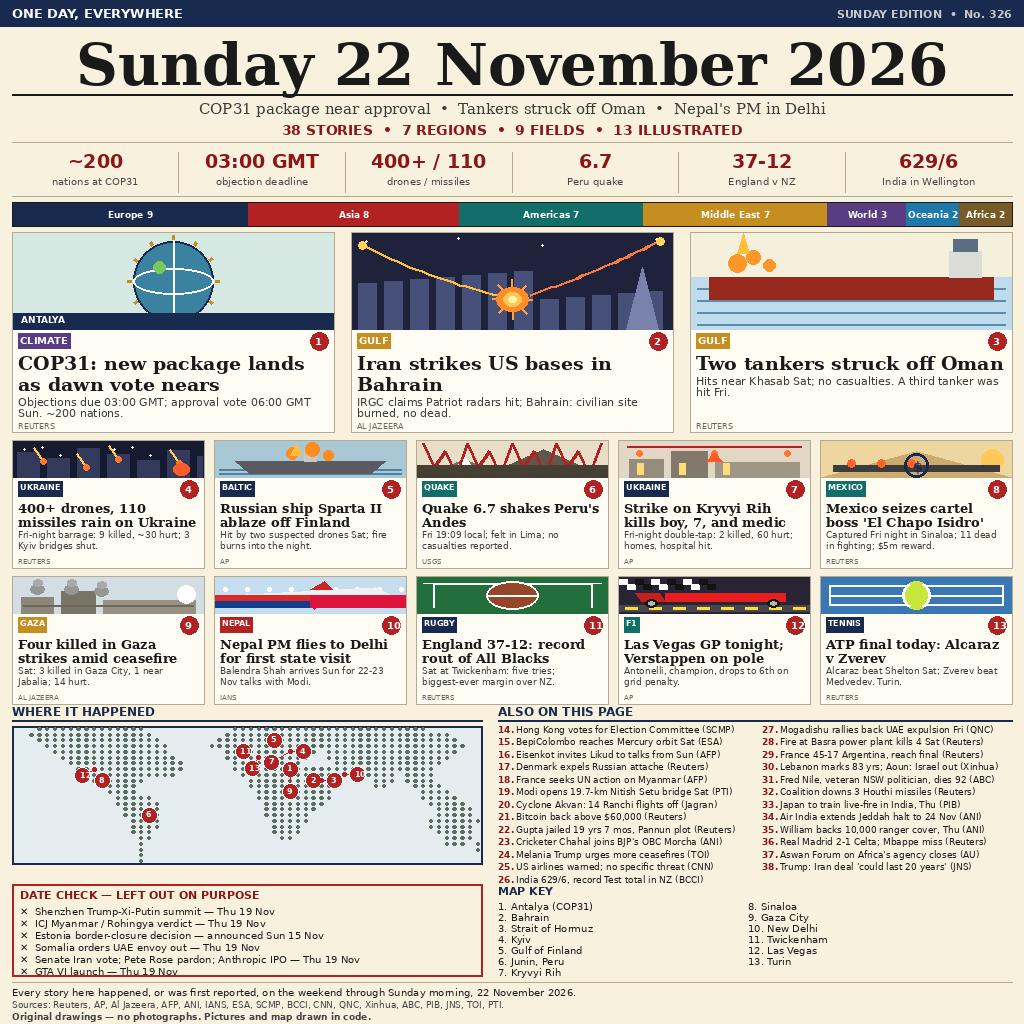
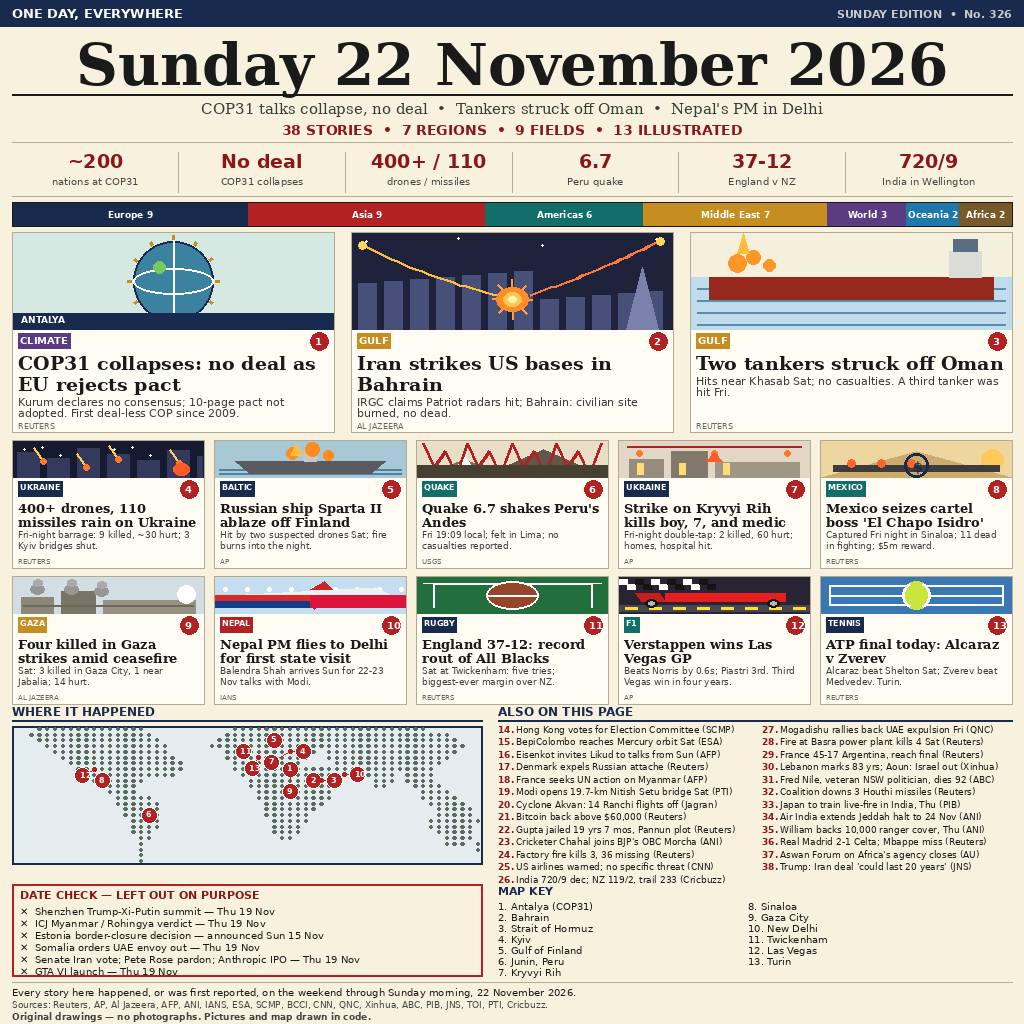
Freeze pass: COP31 collapses, Verstappen wins Vegas GP, India 720/9 dec; #24 displaced by Banten factory fire; ATP still pending

diff --git a/stories.py b/stories.py
@@ -2,8 +2,13 @@
 # 38 stories, 7 regions, 9 fields. Every item verified 22 Nov 2026 ~01:25 UTC
 # against a named wire/primary source (see SOURCES below). Items whose event
 # fell on Fri 19 / Sat 21 Nov carry that date INSIDE their deck; the barrage
-# deck never says "Sunday". COP31 / Las Vegas GP / ATP final were still
-# undecided at build time and are decked honestly as pending/preview.
+# deck never says "Sunday".
+# FREEZE PASS Sun 22 Nov ~20:00 WIB: COP31 BLOCKED (no deal adopted, Kurum
+# declares no consensus at closing plenary, first deal-less COP since 2009);
+# Las Vegas GP won by Verstappen; India Test Day 4 stumps 720/9 dec, NZ
+# 119/2 trail 233; brief 24 displaced by the Banten factory fire (Reuters
+# wire snapshot 3 killed / 36 missing). ATP final (Alcaraz v Zverev) STILL
+# PENDING — starts 18:00 CET / 00:00 WIB Mon; lead 13 stays a preview.
 # Peru quake uses the USGS-REVISED 6.7, never 6.9. Basra fire decks only
 # "4 killed" — the injured toll is split 30 vs 35 across wires, so it is
 # not banked. Japan live-fire and Prince William cover are Thu 19/20 Nov
@@ -12,8 +17,8 @@
 LEADS = [
     # (num, region, field, tag, headline, deck, source, art)
     (1, "World", "Climate", "CLIMATE",
-     "COP31: new package lands as dawn vote nears",
-     "Objections due 03:00 GMT; approval vote 06:00 GMT Sun. ~200 nations.",
+     "COP31 collapses: no deal as EU rejects pact",
+     "Kurum declares no consensus; 10-page pact not adopted. First deal-less COP since 2009.",
      "Reuters", "cop"),
     (2, "Middle East", "War", "GULF",
      "Iran strikes US bases in Bahrain",
@@ -56,8 +61,8 @@ LEADS = [
      "Sat at Twickenham: five tries; biggest-ever margin over NZ.",
      "Reuters", "rugby"),
     (12, "Americas", "Sport", "F1",
-     "Las Vegas GP tonight; Verstappen on pole",
-     "Antonelli, champion, drops to 6th on grid penalty.",
+     "Verstappen wins Las Vegas GP",
+     "Beats Norris by 0.6s; Piastri 3rd. Third Vegas win in four years.",
      "AP", "race"),
     (13, "Europe", "Sport", "TENNIS",
      "ATP final today: Alcaraz v Zverev",
@@ -80,9 +85,9 @@ BRIEFS = [
     (21, "World", "Economy", "Bitcoin back above $60,000 (Reuters)"),
     (22, "Americas", "Justice", "Gupta jailed 19 yrs 7 mos, Pannun plot (Reuters)"),
     (23, "Asia", "Politics", "Cricketer Chahal joins BJP's OBC Morcha (ANI)"),
-    (24, "Americas", "Politics", "Melania Trump urges more ceasefires (TOI)"),
+    (24, "Asia", "Disasters", "Factory fire kills 3, 36 missing (Reuters)"),
     (25, "Americas", "War", "US airlines warned; no specific threat (CNN)"),
-    (26, "Oceania", "Sport", "India 629/6, record Test total in NZ (BCCI)"),
+    (26, "Oceania", "Sport", "India 720/9 dec; NZ 119/2, trail 233 (Cricbuzz)"),
     (27, "Africa", "Politics", "Mogadishu rallies back UAE expulsion Fri (QNC)"),
     (28, "Middle East", "Disasters", "Fire at Basra power plant kills 4 Sat (Reuters)"),
     (29, "Europe", "Sport", "France 45-17 Argentina, reach final (Reuters)"),
@@ -110,4 +115,5 @@ DATE_CHECK = [
 ]
 
 SOURCES_LINE = ("Sources: Reuters, AP, Al Jazeera, AFP, ANI, IANS, ESA, "
-                "SCMP, BCCI, CNN, QNC, Xinhua, ABC, PIB, JNS, TOI, PTI.")
+                "SCMP, BCCI, CNN, QNC, Xinhua, ABC, PIB, JNS, TOI, PTI, "
+                "Cricbuzz.")

diff --git a/compose.py b/compose.py
@@ -451,7 +451,7 @@ def paint_header(d):
     f = SERIF_B(58)
     d.text(((W - d.textlength(mast, font=f)) / 2, 30), mast, font=f, fill=INK)
     d.line([MARGIN, 94, W - MARGIN, 94], fill=INK, width=2)
-    sub = ("COP31 package near approval  •  Tankers struck off Oman  •  "
+    sub = ("COP31 talks collapse, no deal  •  Tankers struck off Oman  •  "
            "Nepal's PM in Delhi")
     f2 = SERIF_I(15)
     d.text(((W - d.textlength(sub, font=f2)) / 2, 100), sub, font=f2, fill=(60, 60, 60))
@@ -464,11 +464,11 @@ def paint_header(d):
 def paint_numbers(d):
     cells = [
         ("~200", "nations at COP31"),
-        ("03:00 GMT", "objection deadline"),
+        ("No deal", "COP31 collapses"),
         ("400+ / 110", "drones / missiles"),
         ("6.7", "Peru quake"),
         ("37-12", "England v NZ"),
-        ("629/6", "India in Wellington"),
+        ("720/9", "India in Wellington"),
     ]
     y0, y1 = 148, 196
     cw = CONTENT_W / 6.0

diff --git a/BUILD-NOTE.md b/BUILD-NOTE.md
@@ -149,3 +149,66 @@ messages (copy program, then the guard revision). `stories.py` written
 in-session; the briefs block was re-laid out via a shell heredoc rewrite
 during the one-line fit fix, then edited again via the edit tool
 (brief 36). `entry.png` is generated by `compose.py`, not copied in.
+
+## FREEZE PASS — evening freeze (Sun 22 Nov ~20:00 WIB)
+
+All four outcomes frozen on verified live sources; no invented results.
+
+- **Lead 1 — COP31 BLOCKED, no deal adopted.** Kurum declared no
+  consensus at the closing plenary Sun 22 Nov; Reuters collapse report
+  12:09 GMT / 19:09 WIB. 10-page Antalya Pact not adopted, no
+  fossil-fuel mention, no $120bn figure. First COP to end deal-less
+  since Copenhagen 2009. Headline → "COP31 collapses: no deal as EU
+  rejects pact"; deck → "Kurum declares no consensus; 10-page pact not
+  adopted. First deal-less COP since 2009." Source stays Reuters.
+  Numbers strip: "No deal / COP31 collapses"; sub-headline →
+  "COP31 talks collapse, no deal • Tankers struck off Oman • Nepal's PM
+  in Delhi" (measured with PIL at SERIF_I(15): **621.19px**, < 1000px —
+  full wording kept, no shortening needed).
+- **Lead 12 — Las Vegas GP: Max Verstappen WON**, 1:27:39.624; Norris
+  2nd +0.639s, Piastri 3rd +1.529s; Verstappen's 3rd Vegas win in 4
+  years (Formula1.com / FIA / AP). Headline → "Verstappen wins Las
+  Vegas GP"; deck → "Beats Norris by 0.6s; Piastri 3rd. Third Vegas win
+  in four years." Source stays AP.
+- **Lead 13 — ATP final STILL PENDING.** Alcaraz v Zverev has NOT been
+  played; final starts 18:00 CET = 00:00 WIB Mon 23 Nov. Lead 13
+  UNCHANGED, stays a preview ("ATP final today: Alcaraz v Zverev").
+- **Brief 24 — DISPLACED.** Melania brief replaced by the Sunday-reported
+  Indonesia factory fire (Reuters, Sun 22 Nov): fire at PT Fonusa
+  Agung Mulia candy factory, Cikande, Serang, Banten; 3 killed, 36
+  missing, 15 rescued; search ongoing Sunday. Brief now reads
+  "Factory fire kills 3, 36 missing (Reuters)" (Asia / Disasters).
+  **Moving-toll caveat:** a later Basarnas/BBC midday update put the
+  toll at 6 dead, 33 missing — the toll was still moving at freeze time.
+  Frozen on the Reuters wire snapshot (3/36) as written; do NOT use
+  6/33 on the page.
+- **Brief 26 — India Test, Day 4 STUMPS** (ESPNcricinfo + Cricbuzz):
+  India 720/9 declared, lead 352; NZ 119/2, trail by 233. One stale
+  outlier said 77/2 — ignored. Brief now reads "India 720/9 dec; NZ
+  119/2, trail 233 (Cricbuzz)"; numbers strip "720/9 / India in
+  Wellington". Cricbuzz added to SOURCES_LINE.
+- **Sunday daytime sweep:** the EU–Indonesia trade deal (verified,
+  signed Sat 21 Nov) was NOT used — it predates the build. The only
+  displacement is #24 (Banten fire). No other stronger Sunday story
+  displaced #38 or #34.
+- **Counts after freeze (unchanged totals, shifted mix): 38 stories
+  (13 leads + 25 briefs), 7 regions, 9 fields.** Regions: Europe 9,
+  Asia 9, Americas 6, Middle East 7, World 3, Oceania 2, Africa 2.
+  Fields: War 8, Politics 10, Sport 6, Economy 3, Disasters 4,
+  Society 3, Justice 2, Climate 1, Tech 1. Story numbers 1–38
+  consecutive (renderer asserts 38/7/9 — passed).
+- **Re-render verification:** `compose.py` 2× → byte-identical,
[1 lines of base64/hex data omitted]
+  `entry.png` 1024×1024 RGB, **182,415 bytes** (≤1 MiB).
+  `main.ts` local run (MAKEFUN_OUTPUT_DIR=/tmp/ni22_main_freeze, Node
+  24.22.1): exit 0, output byte-identical to entry.png (same sha256).
+  No render guard fired (no overflow); sub-headline measured 621.19px.
+- **Visual check:** full page viewed at full size + enlarged crops of
+  header (sub-headline, numbers strip), lead 12 card, and briefs 24/26.
+  All changed cards read clean — no clipped or overflowing text. Lead 1
+  headline wraps to two lines inside its card; briefs 24 and 26 fit on
+  one line each. Footer now lists Cricbuzz among the sources.
+- **STILL PENDING after this pass:** ATP final winner only (final
+  starts 00:00 WIB Mon 23 Nov — after the freeze; cannot be filled
+  tonight). Deadline Tue 24 Nov 07:00 WIB. NOT bundled, kit-checked,
+  or submitted — main agent handles that after the user's green light.
